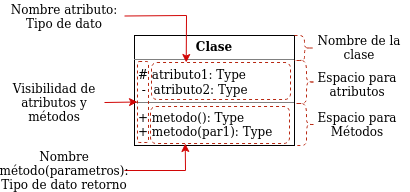
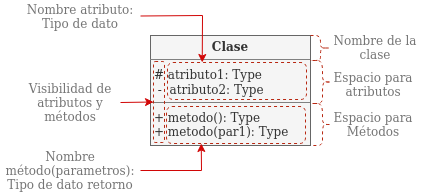
add e.g. encapsulation. Fix img for dark themes

Changed region(s): [[0.0, 0.0, 0.9951, 1.0]]

diff --git a/clasePoo2.html b/clasePoo2.html
@@ -289,7 +289,7 @@
 
 					<section>
 						<h3>Encapsulamiento</h3>
-						<p><small>En <strong>Python</strong> no tenemos las palabras claves que sí tenemos en Java y C++. Pero tenemos otras formas de hacer lo mismo.</small></p>
+						<p><small>En <strong>Python</strong> no tenemos las palabras claves que sí tenemos en Java y C++. Pero tenemos otras formas de implementarlo.</small></p>
 					<small>
 						<ul>
 							<li><strong>Public:</strong> Por defecto en Python todo será public.</li>
@@ -297,10 +297,30 @@
 							<li><strong>"Protected":</strong> El atributo o método debe comenzar con guión bajo (_). Pero a diferencia de Java, sí podrá ser accedido desde fuera de la clase.</li>
 						</ul>
 					</small>
+
+					<pre data-id="code-animation"><code class="python" data-trim>
+						class Prueba:
+							def __init__(self):
+								self.atributo_publico = 0
+								self._atributo_protegido = 1
+								self.__atributo_privado = 2
+					
+						p = Prueba()
+						print (p.atributo_publico) # 0
+						print (p._atributo_protegido) # 1
+						print (p.__atributo_privado) # AttributeError:
+							
+					</code></pre>
+
+					</section>
 					
 
 
-					<h4>Ejemplo con métodos</h4>
+					
+
+					<section>
+						<h3>Ejemplo con métodos</h3>
+						<p><small>Los métodos también pueden encapsularse:</small></p>
 
 						<pre data-id="code-animation"><code class="python" data-trim>
 							class Prueba:
@@ -310,17 +330,61 @@
 									pass
 								def __private(self):
 									pass
+
+							p = Prueba()
+							p.public() # pass
+							p._protected() # pass
+							p.__private() # AttributeError:
 						</code></pre>
 
-						<p><small>Ejemplo <a href="https://www.mycompiler.io/view/8qERUiQ2nzJ">encapsulamiento</a></small></p>
+						<p><small>Ejemplo <a href="https://www.mycompiler.io/view/8qERUiQ2nzJ" target="_blank">encapsulamiento</a></small></p>
+					</section>
+					<section>
+						<h3>getters y setters</h3>
+						<p><small>Como ya hemos mencionado en varias oportunidades, <em>es una mala práctica de programación acceder directamente a los atributos</em> existen por lo tanto mecanismos para acceder a los atributos sin romper el <em>encapsulamiento</em> de nuestros objetos. Estos mecanismos son conocidos como <strong>getters</strong> y <strong>setters</strong>.</small></p>
+						<small>
+						<ul>
+							<li><strong>getter</strong>: Viene del inglés <em>get</em> (obtener) y se usa para obtener el atributo que está encapsulado.</li>
+							<li><strong>setter</strong>: Viene del inglés <em>set</em> (establecer o setear) y se usa para establecer el valor al atributo que está encapsulado.</li>
+						</ul>
+					</small>
+					<p><small>En ambos caso se tratan de <em>métodos</em> que nos permiten acceder de forma segura al atributo encapsulado.</small></p>
+					<p><small>Por lo general, en el caso del <strong>getter</strong> es simplemente un método que hace un <code>return</code> del atributo.</small></p>
+					<p><small>En el caso del <strong>setter</strong> puede tratarse de un método que recibe como parámetro el valor para establecer en el atributo. Pero además el método puede contener código para hacer que el valor establecido sea válido.</small></p>
+					</section>
 
+					<section>
+						<h3>Getters y setters</h3>
+						<p><small>Siempre es mejor comprender las cosas con un ejemplo:</small></p>
+
+						<pre data-id="code-animation"><code class="python" data-trim>
+							class Prueba:
+								def __init__(self):
+									self.__atributo = 0
+								
+								def get_atributo(self):
+									return self.__atributo
+
+								def set_atributo(self, valor):
+									self.__atributo = valor
+
+							p = Prueba() # Se instancia la clase
+							p.set_atributo(3) # Se setea el valor 3 en el atributo
+							print (p.get_atributo()) # Se obtiene el valor del atributo
+						</code></pre>
+
+						<p><small>De esta manera estamos respetando el principio de encapsulación. Es importante que los métodos getters y setters sean accesibles desde donde se requiera obtener o establecer los valores de sus atributos.</small></p>
 						
 
-					
 					</section>
 					<section>
 						<h2>¿Preguntas?</h2>
 					</section>
+
+					
+				
+
+					
 				</section>
 
 				<section>
